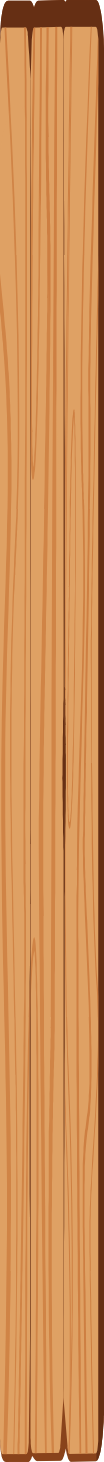
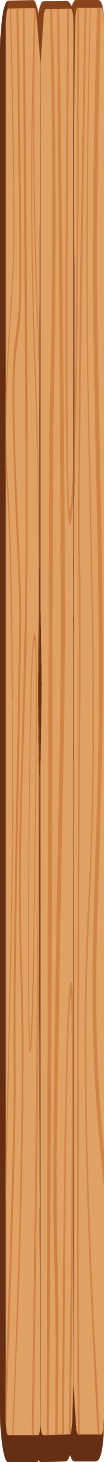
Worked on the style

diff --git a/styles/index.css b/styles/index.css
@@ -42,7 +42,7 @@ footer {
     background-image: url(../media/board.svg);
     background-position: center;
     background-repeat: no-repeat;
-    background-size: 130vw 20vh;
+    background-size: 130vw 50vh;
 }
 
 footer h1 {
@@ -71,6 +71,19 @@ nav a:visited {
 .objectives {
     display: grid;
     grid-template-rows: 1fr 1fr 1fr;
+}
+
+label {
+    color: white; 
+    text-shadow: 1px 1px 4px rgba(0, 0, 0, 0.5); 
+}
+
+p {
+    text-shadow: 1px 1px 2px rgba(0, 0, 0, 0.5);
+    background-color: rgba(245, 222, 179, .8);
+    border-radius: 10px;
+    margin: 5px;
+    padding: 5px;
 }
 
 /* Colonne mission */
